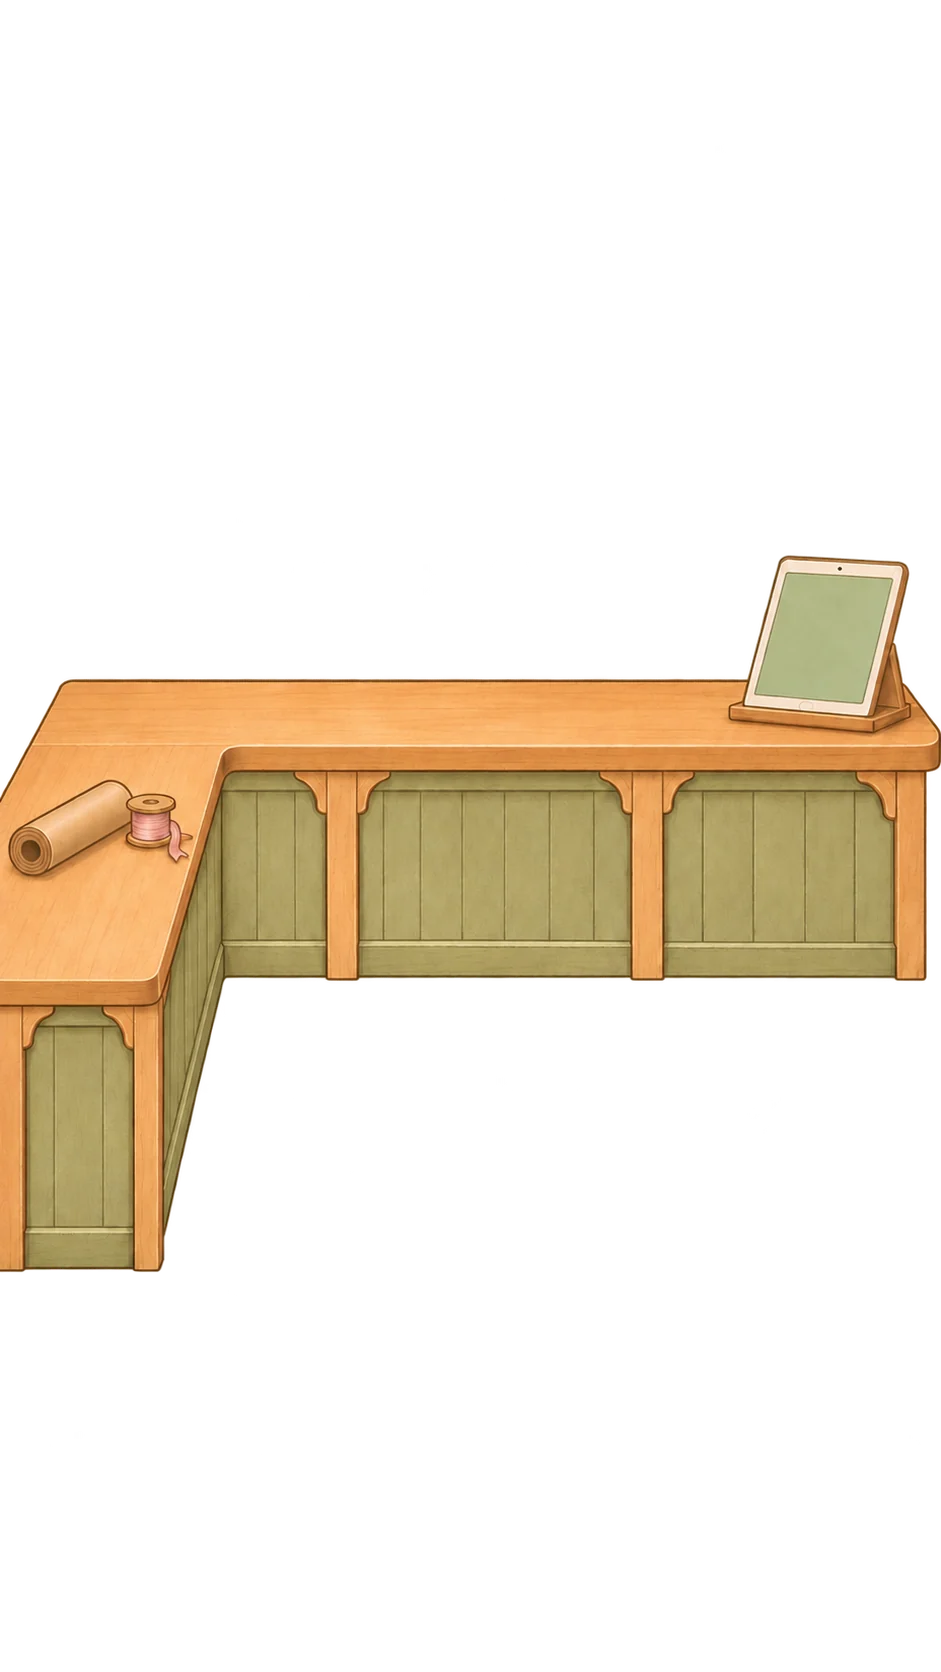
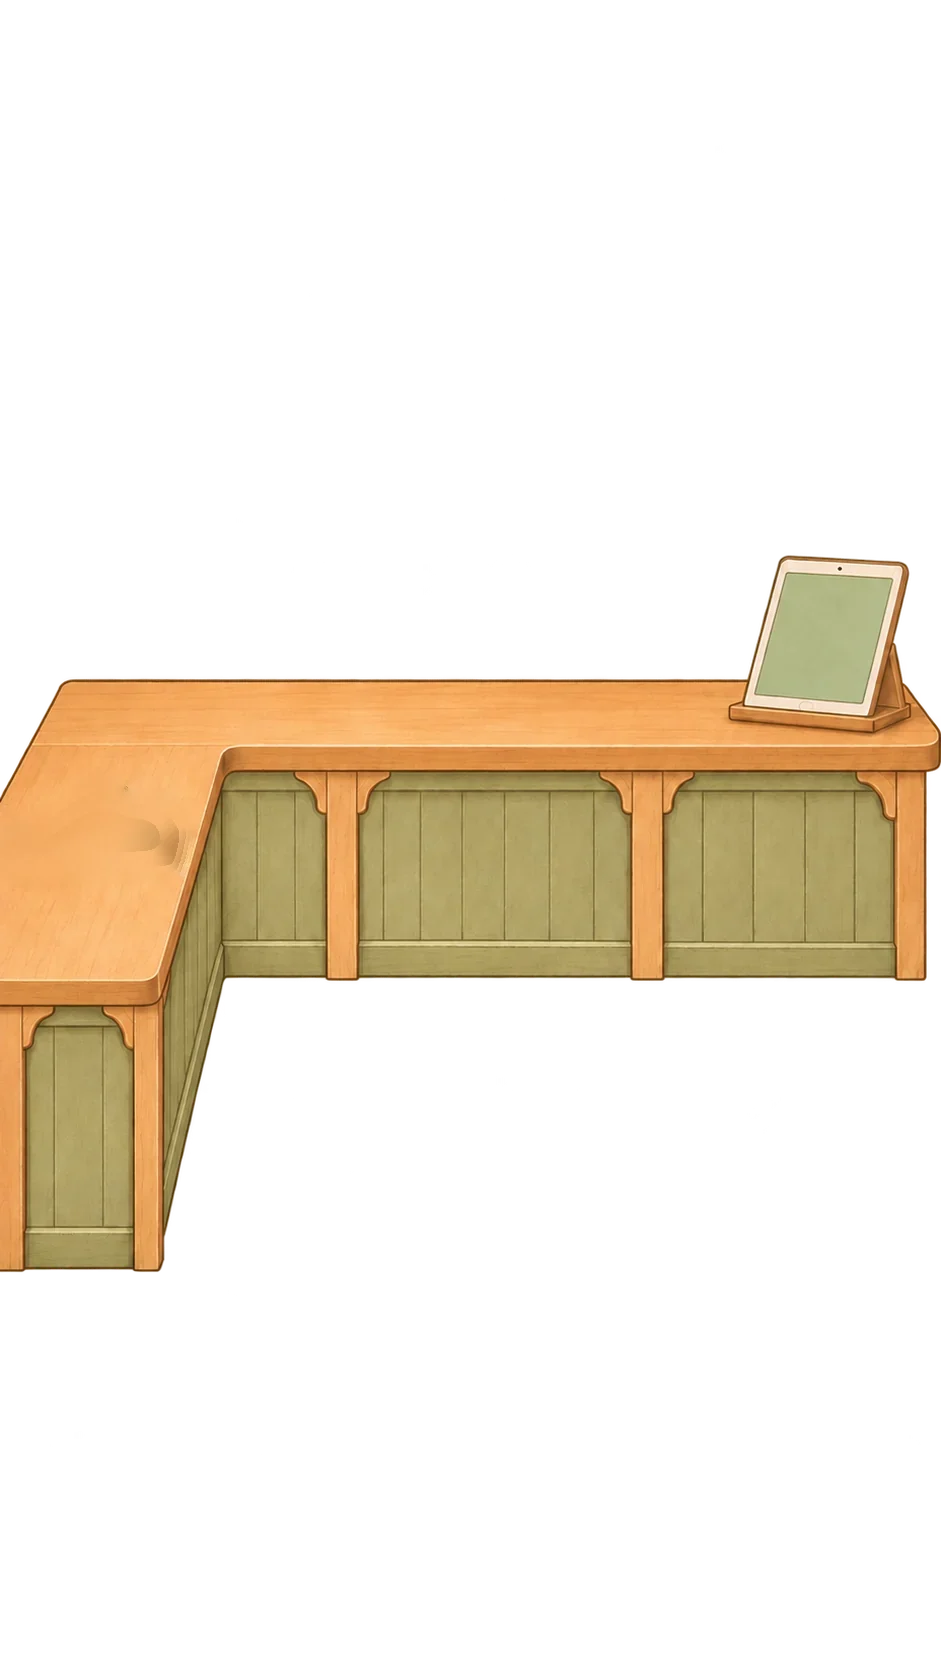
Shop counter: new iPad, wrapping paper and ribbon spool art with outline glow
- New props drawn over the counter; the old roll and spool are painted out of the counter layers
- Tappable props glow along their outline instead of showing a dashed box

Claude-Session: https://claude.ai/code/session_01QAfQwgfvNpzjbhC7GcuhyV

Changed region(s): [[0.0, 0.4665, 0.2157, 0.5287]]

diff --git a/guinny-garden/css/style.css b/guinny-garden/css/style.css
@@ -381,8 +381,8 @@ body[data-tod="night"] .cloud { opacity: .25; }
 /* Tappable spots on the counter */
 .hot { border-radius: 18px; z-index: 12; }
 .hot::before { content: ""; position: absolute; inset: 0; border-radius: inherit; border: 3px dashed transparent; transition: border-color .3s, background .3s; }
-.hot.attn::before { border-color: rgba(255, 255, 255, .95); background: rgba(255, 250, 235, .22); animation: glow 1.3s ease-in-out infinite; }
-.hot:active::before { background: rgba(255, 250, 235, .35); }
+.hot.attn::before { display: none; }
+.hot::before { display: none; }
 @keyframes glow { 50% { transform: scale(1.05); opacity: .55; } }
 .hot-tag { position: absolute; left: 50%; bottom: 100%; transform: translateX(-50%); white-space: nowrap; margin-bottom: 2px;
   background: var(--paper); border: 2px solid var(--line); border-radius: 999px; padding: 1px 9px; font-size: .74rem; font-weight: 800; box-shadow: var(--shadow); }
@@ -656,3 +656,17 @@ body[data-tod="night"] .cloud { opacity: .25; }
 
 /* mirrored copy of the floor / lawn below the art, so tall screens continue seamlessly */
 .canvas .layer-ext { inset: auto; left: 0; top: 100%; width: 100%; height: 100%; transform: scaleY(-1); }
+
+/* Counter props (user art) drawn over the counter layer; they glow along their outline when needed */
+.canvas .prop { pointer-events: none; height: auto; z-index: 10; transition: filter .3s; }
+[data-o="landscape"] .prop-ipad   { left: 55%;   top: 38.5%; width: 11.5%; }
+[data-o="landscape"] .prop-paper  { left: 14.7%; top: 56%;   width: 7%; }
+[data-o="landscape"] .prop-ribbon { left: 21.1%; top: 56%;   width: 4.1%; }
+[data-o="portrait"]  .prop-ipad   { left: 76.5%; top: 32%;   width: 21.5%; }
+[data-o="portrait"]  .prop-paper  { left: 0%; top: 46.6%; width: 15.6%; }
+[data-o="portrait"]  .prop-ribbon { left: 13.1%; top: 47.3%; width: 7.6%; }
+.prop.glow { animation: outline-glow 1.4s ease-in-out infinite; }
+@keyframes outline-glow {
+  0%, 100% { filter: drop-shadow(1.5px 0 0 #FFFBEA) drop-shadow(-1.5px 0 0 #FFFBEA) drop-shadow(0 1.5px 0 #FFFBEA) drop-shadow(0 -1.5px 0 #FFFBEA) drop-shadow(0 0 2px rgba(255, 220, 120, .5)); }
+  50%      { filter: drop-shadow(2.5px 0 0 #FFF6CF) drop-shadow(-2.5px 0 0 #FFF6CF) drop-shadow(0 2.5px 0 #FFF6CF) drop-shadow(0 -2.5px 0 #FFF6CF) drop-shadow(0 0 8px rgba(255, 214, 102, .95)); }
+}

diff --git a/guinny-garden/js/scenes/shop.js b/guinny-garden/js/scenes/shop.js
@@ -32,6 +32,9 @@ export function mount(el, api) {
       <div class="menu-board" aria-label="Today's menu"></div>
       <img class="guinny" src="assets/img/guinny-apron.webp" alt="Guinny" draggable="false">
       <img class="layer" data-layer="counter" alt="" draggable="false">
+      <img class="prop prop-paper" src="assets/img/shop/prop-paper.webp" alt="" draggable="false">
+      <img class="prop prop-ribbon" src="assets/img/shop/prop-ribbon.webp" alt="" draggable="false">
+      <img class="prop prop-ipad" src="assets/img/shop/prop-ipad.webp" alt="" draggable="false">
       <div class="decor-spot" data-spot="plush"></div>
       <div class="decor-spot" data-spot="rug"></div>
       <button class="hot hot-pack" aria-label="Packing area"><span class="hot-tag">Wrap ✿</span></button>
@@ -61,7 +64,7 @@ export function mount(el, api) {
 
 // Pick the landscape or portrait background to fit the view.
 // Keep the counter, packing table, iPad, menu board and customer spot on screen.
-const KEEP = { landscape: [0.06, 0.15, 0.97, 0.97], portrait: [0.02, 0.1, 0.98, 0.9] };
+const KEEP = { landscape: [0.06, 0.15, 0.97, 0.97], portrait: [0, 0.1, 1, 0.9] };
 function layout() {
   const vw = view.clientWidth, vh = view.clientHeight;
   if (!vw || !vh) return;
@@ -307,8 +310,10 @@ function finishPacking(key, scent) {
 function render() {
   const pack = $('.hot-pack', view), bag = $('.bag', view);
   pack.classList.toggle('attn', !!cust && cust.stage === 'waiting' && available(cust.want) > 0);
+  $$('.prop-paper, .prop-ribbon', canvas).forEach((el) => el.classList.toggle('glow', pack.classList.contains('attn')));
   bag.classList.toggle('attn', !!cust && cust.stage === 'ready');
   $('.hot-ipad', view).classList.toggle('attn', !S.lineup.length || (!cust && !sellable().length));
+  $('.prop-ipad', canvas).classList.toggle('glow', $('.hot-ipad', view).classList.contains('attn'));
   let t;
   if (!cust) {
     t = !S.lineup.length ? 'Tap the iPad to choose today’s menu'

diff --git a/guinny-garden/sw.js b/guinny-garden/sw.js
@@ -1,5 +1,5 @@
 // Offline cache for the prototype. Bump VERSION when files change.
-const VERSION = 'gg-v5';
+const VERSION = 'gg-v6';
 const FILES = [
   './', 'index.html', 'css/style.css', 'manifest.webmanifest',
   'js/main.js', 'js/state.js', 'js/data.js', 'js/art.js', 'js/ui.js',

diff --git a/guinny-garden/README.md b/guinny-garden/README.md
@@ -76,4 +76,4 @@ garden) are CSS in `css/style.css` under each scene's section.
 
 ### Shop-front layout
 
-The shop layers are drawn on a canvas with the art's own aspect ratio (1672×941 or 941×1672) that covers the view. Guinny, the customers, the menu board text, the tap areas (wrapping table, iPad), the bag/coins and the decor are all placed in **% of that canvas**, in the "Shop front" section at the end of `css/style.css` (`[data-o="landscape"]` / `[data-o="portrait"]`). If new background art moves the counter or iPad, update those numbers. The draw order is wall → floor → window → board → Guinny → counter → customers.
+The shop layers are drawn on a canvas with the art's own aspect ratio (1672×941 or 941×1672) that covers the view. Guinny, the customers, the menu board text, the tap areas (wrapping table, iPad), the bag/coins and the decor are all placed in **% of that canvas**, in the "Shop front" section at the end of `css/style.css` (`[data-o="landscape"]` / `[data-o="portrait"]`). If new background art moves the counter or iPad, update those numbers. The draw order is wall → floor → window → board → Guinny → counter → counter props (`prop-ipad`, `prop-paper`, `prop-ribbon`) → customers. The original roll and spool were painted out of the `*-counter.webp` layers so the new props sit on a clean counter. Props that need attention glow along their outline (`.prop.glow`).
